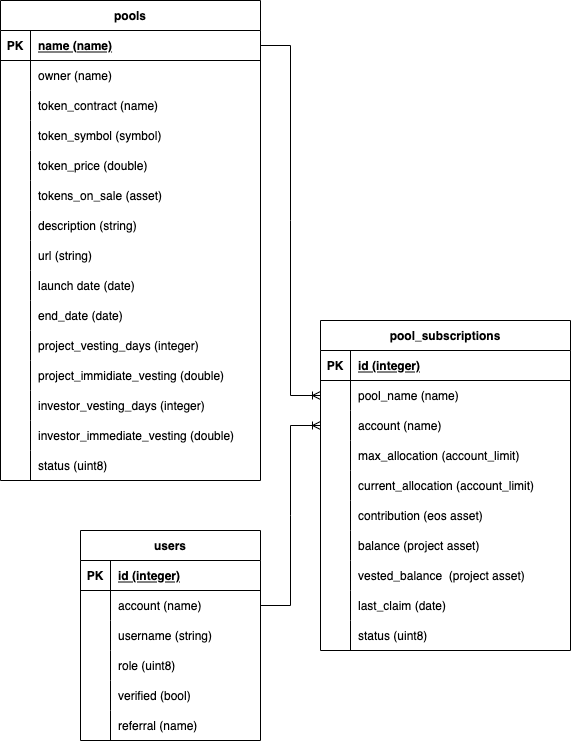
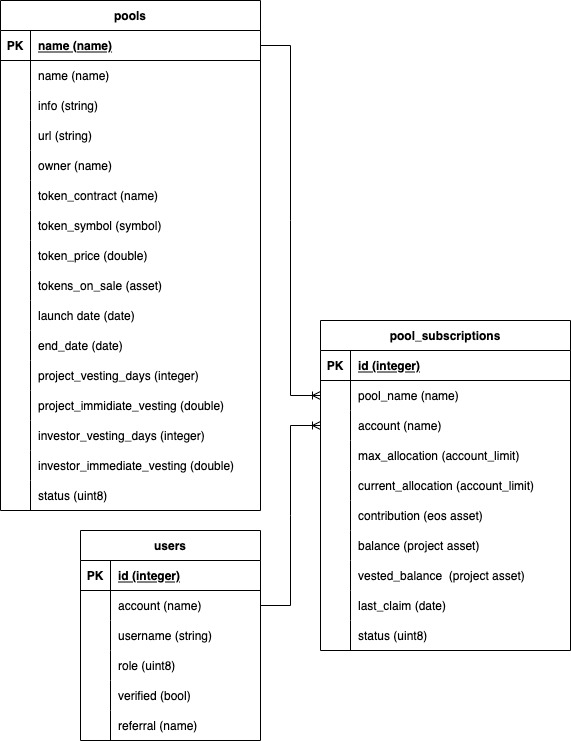
feat: implement user management

Changed region(s): [[0.0595, 0.4656, 0.4168, 0.6829], [0.0595, 0.0931, 0.2977, 0.3104], [0.0595, 0.3414, 0.2977, 0.4345]]

diff --git a/src/tokensaleapp.cpp b/src/tokensaleapp.cpp
@@ -1,5 +1,48 @@
 #include <tokensaleapp.hpp>
 
+ACTION tokensaleapp::adduser( name account, string username, bool verified, uint8_t role, name referral )
+{
+    // ask permission self account
+    require_auth( get_self() );
+
+    // check if account is registered
+    check( is_account( account ), "account is not registered" );
+    // check if referral is registered
+    check( is_account( referral ), "referral is not registered" );
+    // account and referral should be different
+    check( account != referral, "account is equal to referral" );
+    // role must be PROJECT_OWNER or INVESTOR
+    check( role == user_roles::PROJECT_OWNER || role == user_roles::INVESTOR, "invalid role" );
+
+    // check if user is already registered
+    user_table _users( get_self(), get_self().value );
+    auto       _user = _users.find( account.value );
+    check( _user == _users.end(), "user already exist" );
+
+    // add the new user
+    _users.emplace( get_self(), [&]( auto &user ) {
+        user.account = account;
+        user.username = username;
+        user.verified = verified;
+        user.role = role;
+        user.referral = referral;
+    } );
+}
+
+ACTION tokensaleapp::edituser( name account, bool verified )
+{
+    // ask permission self account
+    require_auth( get_self() );
+
+    // check if user is already registered
+    user_table _users( get_self(), get_self().value );
+    auto       _user = _users.find( account.value );
+    check( _user != _users.end(), "user not exist" );
+
+    // update the user data
+    _users.modify( _user, get_self(), [&]( auto &ref ) { ref.verified = verified; } );
+}
+
 ACTION tokensaleapp::addpool( eosio::name    name,
                               string         info,
                               string         url,
@@ -83,7 +126,7 @@ void tokensaleapp::ontransfer( name from, name to, asset quantity, string memo )
     check( params[0] == "pool" && params.size() == 2, "invalid memo" );
 
     pool_table _pools( get_self(), get_self().value );
-    auto       _pool = _pools.find( eosio::name( params[1] ).value );
+    auto       _pool = _pools.find( name( params[1] ).value );
 
     // validate that the pool exists
     check( _pool != _pools.end(), "pool not found" );
@@ -118,15 +161,6 @@ vector< string > tokensaleapp::get_params( string memo )
     }
 
     return params;
-}
-
-uint64_t tokensaleapp::to_uint64_t( string value )
-{
-    uint64_t a;
-    char    *end;
-    a = strtoull( value.c_str(), &end, 10 );
-
-    return a;
 }
 
 ACTION tokensaleapp::clear()

diff --git a/include/tokensaleapp.hpp b/include/tokensaleapp.hpp
@@ -22,6 +22,33 @@ CONTRACT tokensaleapp : public contract
     ACTION clear();
 
     /**
+     * add user
+     *
+     * This action allow to add an user
+     *
+     * @param account
+     * @param username
+     * @param verified
+     * @param role
+     * @param referral
+     *
+     * @return no return value.
+     */
+    ACTION adduser( name account, string username, bool verified, uint8_t role, name referral );
+
+    /**
+     * edit user
+     *
+     * This action allow to edit an user
+     *
+     * @param account
+     * @param verified
+     *
+     * @return no return value.
+     */
+    ACTION edituser( name account, bool verified );
+
+    /**
      * Add pool
      *
      * This action allow add a new pool
@@ -81,8 +108,6 @@ CONTRACT tokensaleapp : public contract
 
     vector< string > get_params( string memo );
 
-    uint64_t to_uint64_t( string value );
-
   private:
     enum pool_status : uint8_t
     {
@@ -92,6 +117,27 @@ CONTRACT tokensaleapp : public contract
         ACTIVE_SALE = 4,
         COMPLETED_SALE = 5
     };
+
+    enum user_roles : uint8_t
+    {
+        PROJECT_OWNER = 1,
+        INVESTOR = 2,
+    };
+
+    TABLE user
+    {
+        name    account;
+        string  username;
+        bool    verified;
+        uint8_t role;
+        name    referral;
+
+        auto primary_key() const
+        {
+            return account.value;
+        }
+    };
+    typedef multi_index< eosio::name( "users" ), user > user_table;
 
     TABLE pool
     {

diff --git a/README.md b/README.md
@@ -61,6 +61,8 @@ Users must deploy and issue their own tokens , EOStater will not have access to 
 
 | User Role | Action | Description | Pre-Conditions | Post-Conditions |
 |---|---|---|---|---|
+| App Admin  | adduser | add a new user | user must not be registered | user is registered  |
+| App Admin  | edituser | edit an user | user must be registered  | user data is updated  |
 | Project Owner | addpool | create a new pool | Account must exist and be verified | pool is pending approval
 | Project Owner | token_contract:transfer | deposit project tokens to pool | pool must be approved | pool can be enabled | pool is funded |
 | Project Owner | claimfunds  | withdraw EOS tokens from pool | pool must have funds and vesting schedule met | project is funded |
@@ -73,8 +75,7 @@ Users must deploy and issue their own tokens , EOStater will not have access to 
 | App Admin  | reject | reject a pool | pool must exist | pool is rejected  |
 | App Admin  | enable | enable a pool | pool must comply with requirements | pool is ready to be funded  |
 | App Admin  | disable | disable a pool | pool must exist | pool is rejected  |
-| App Admin  | whitelist | add account to whitelist | account must exist and comply with requirements | user appears on whitelist  |
-| App Admin | blacklist | add account to blacklist | account must exist | user removed from whitelist |
+
 
 
 ## Smart Contract Accounts 
